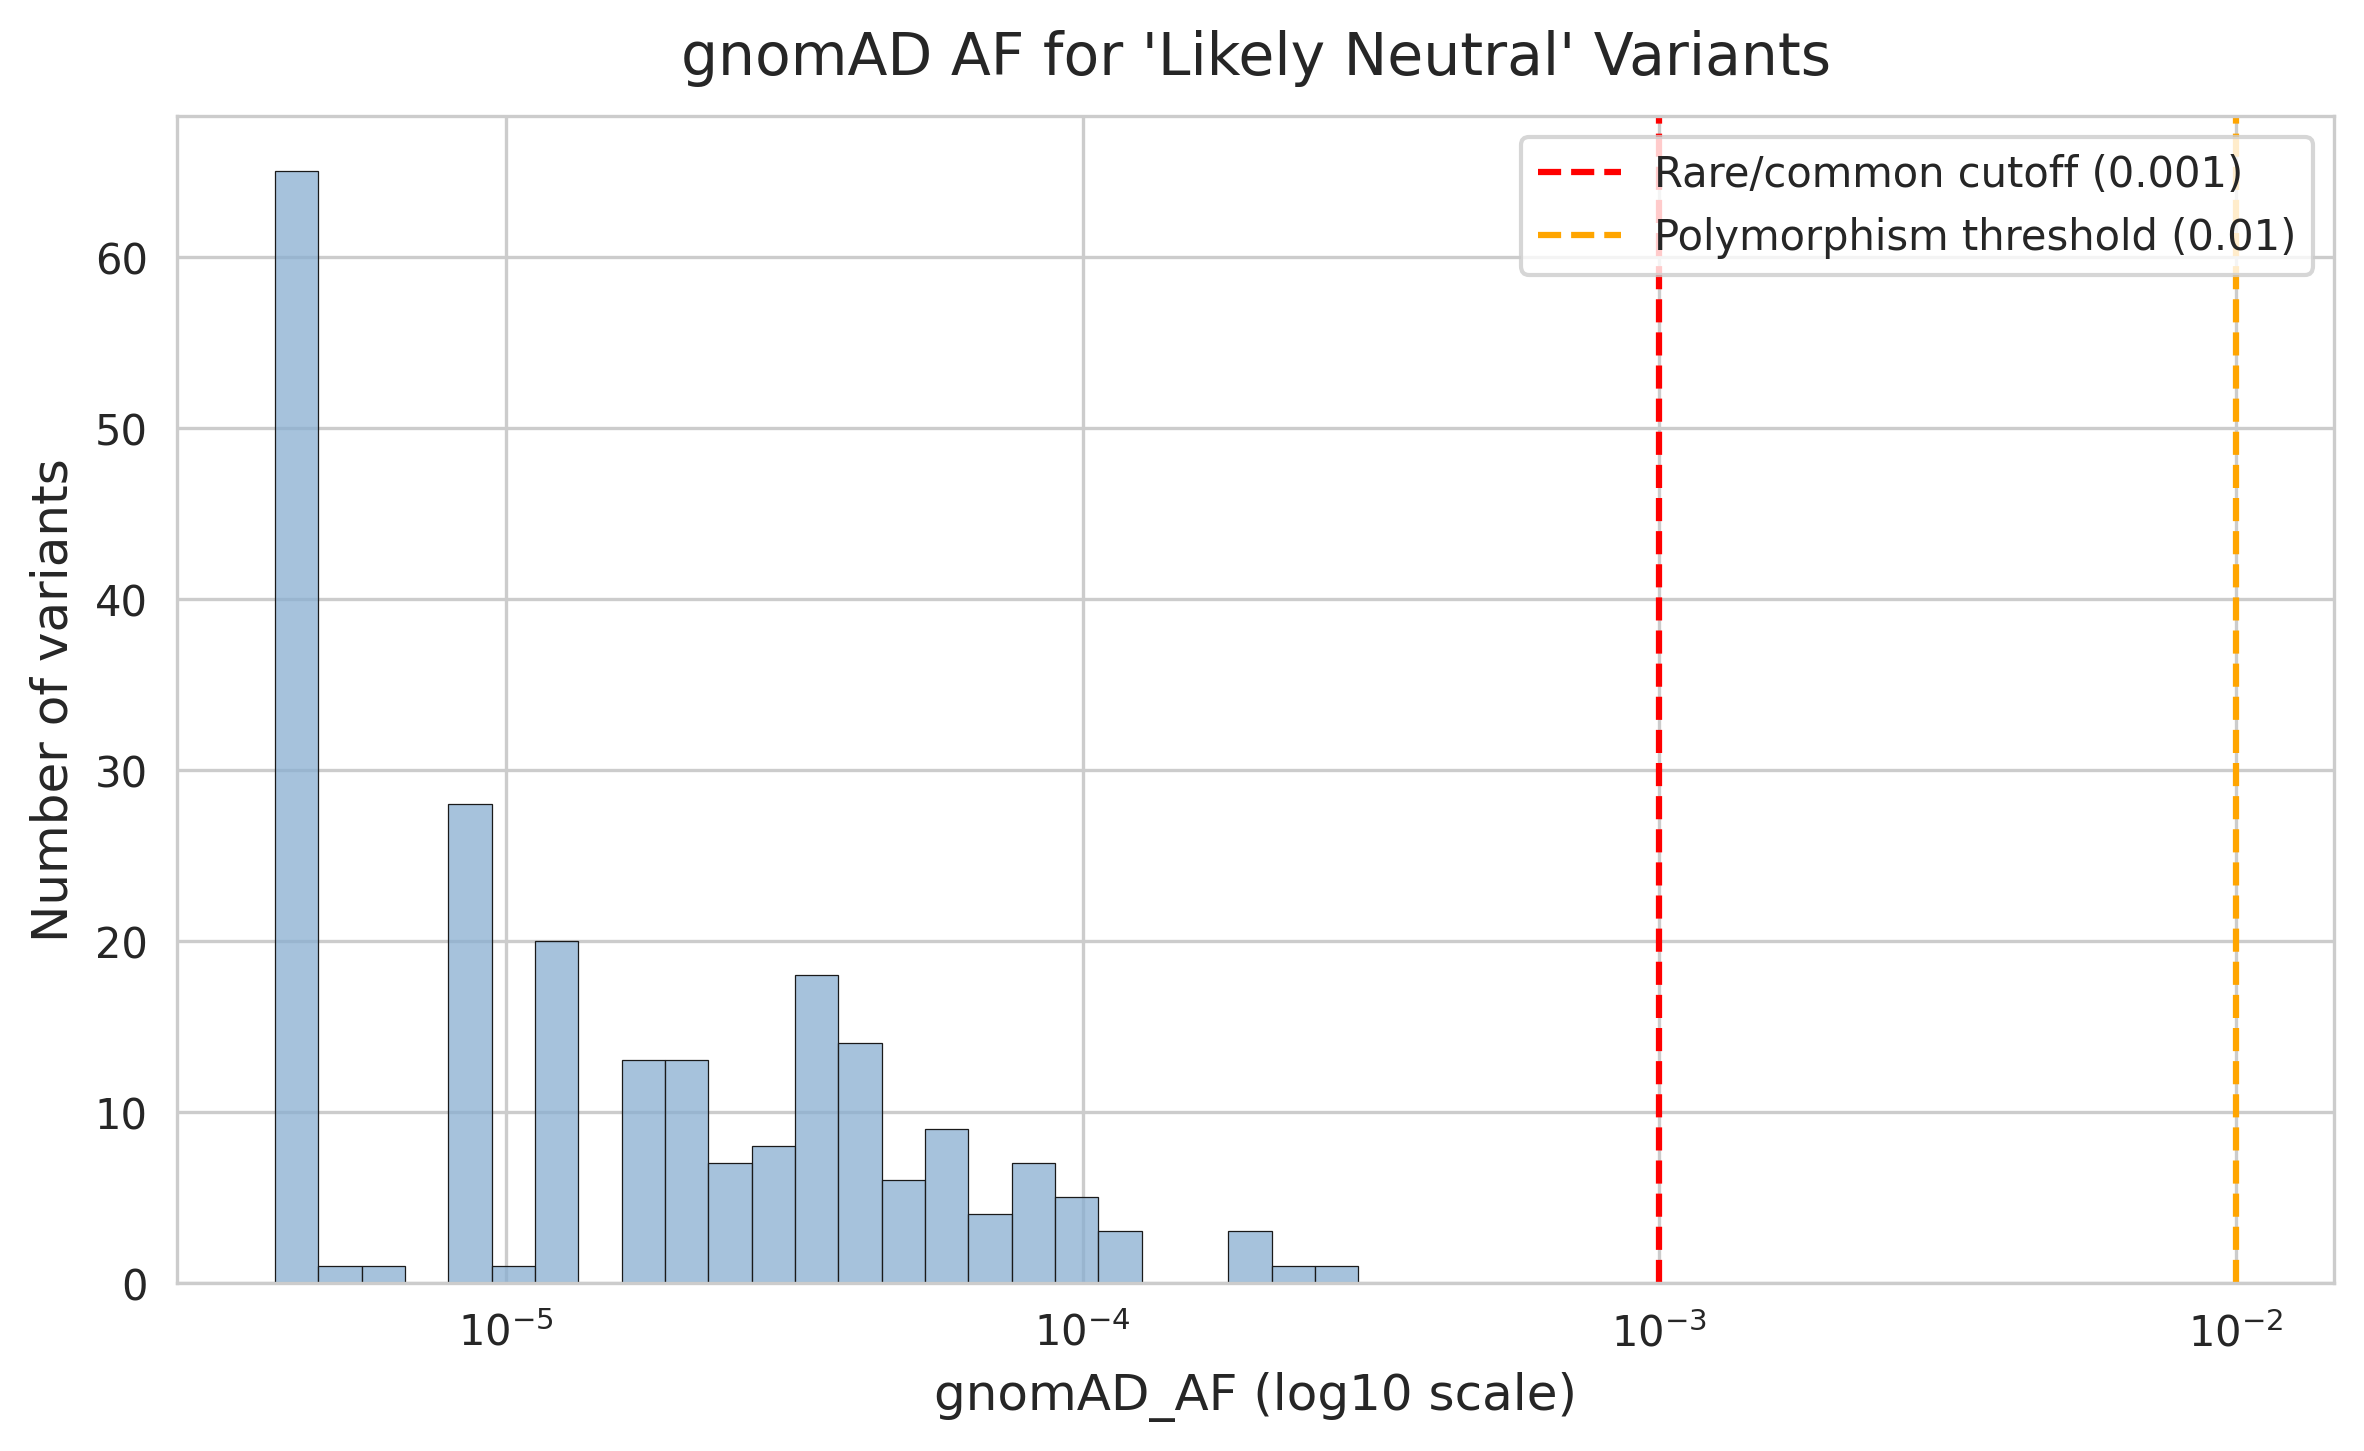
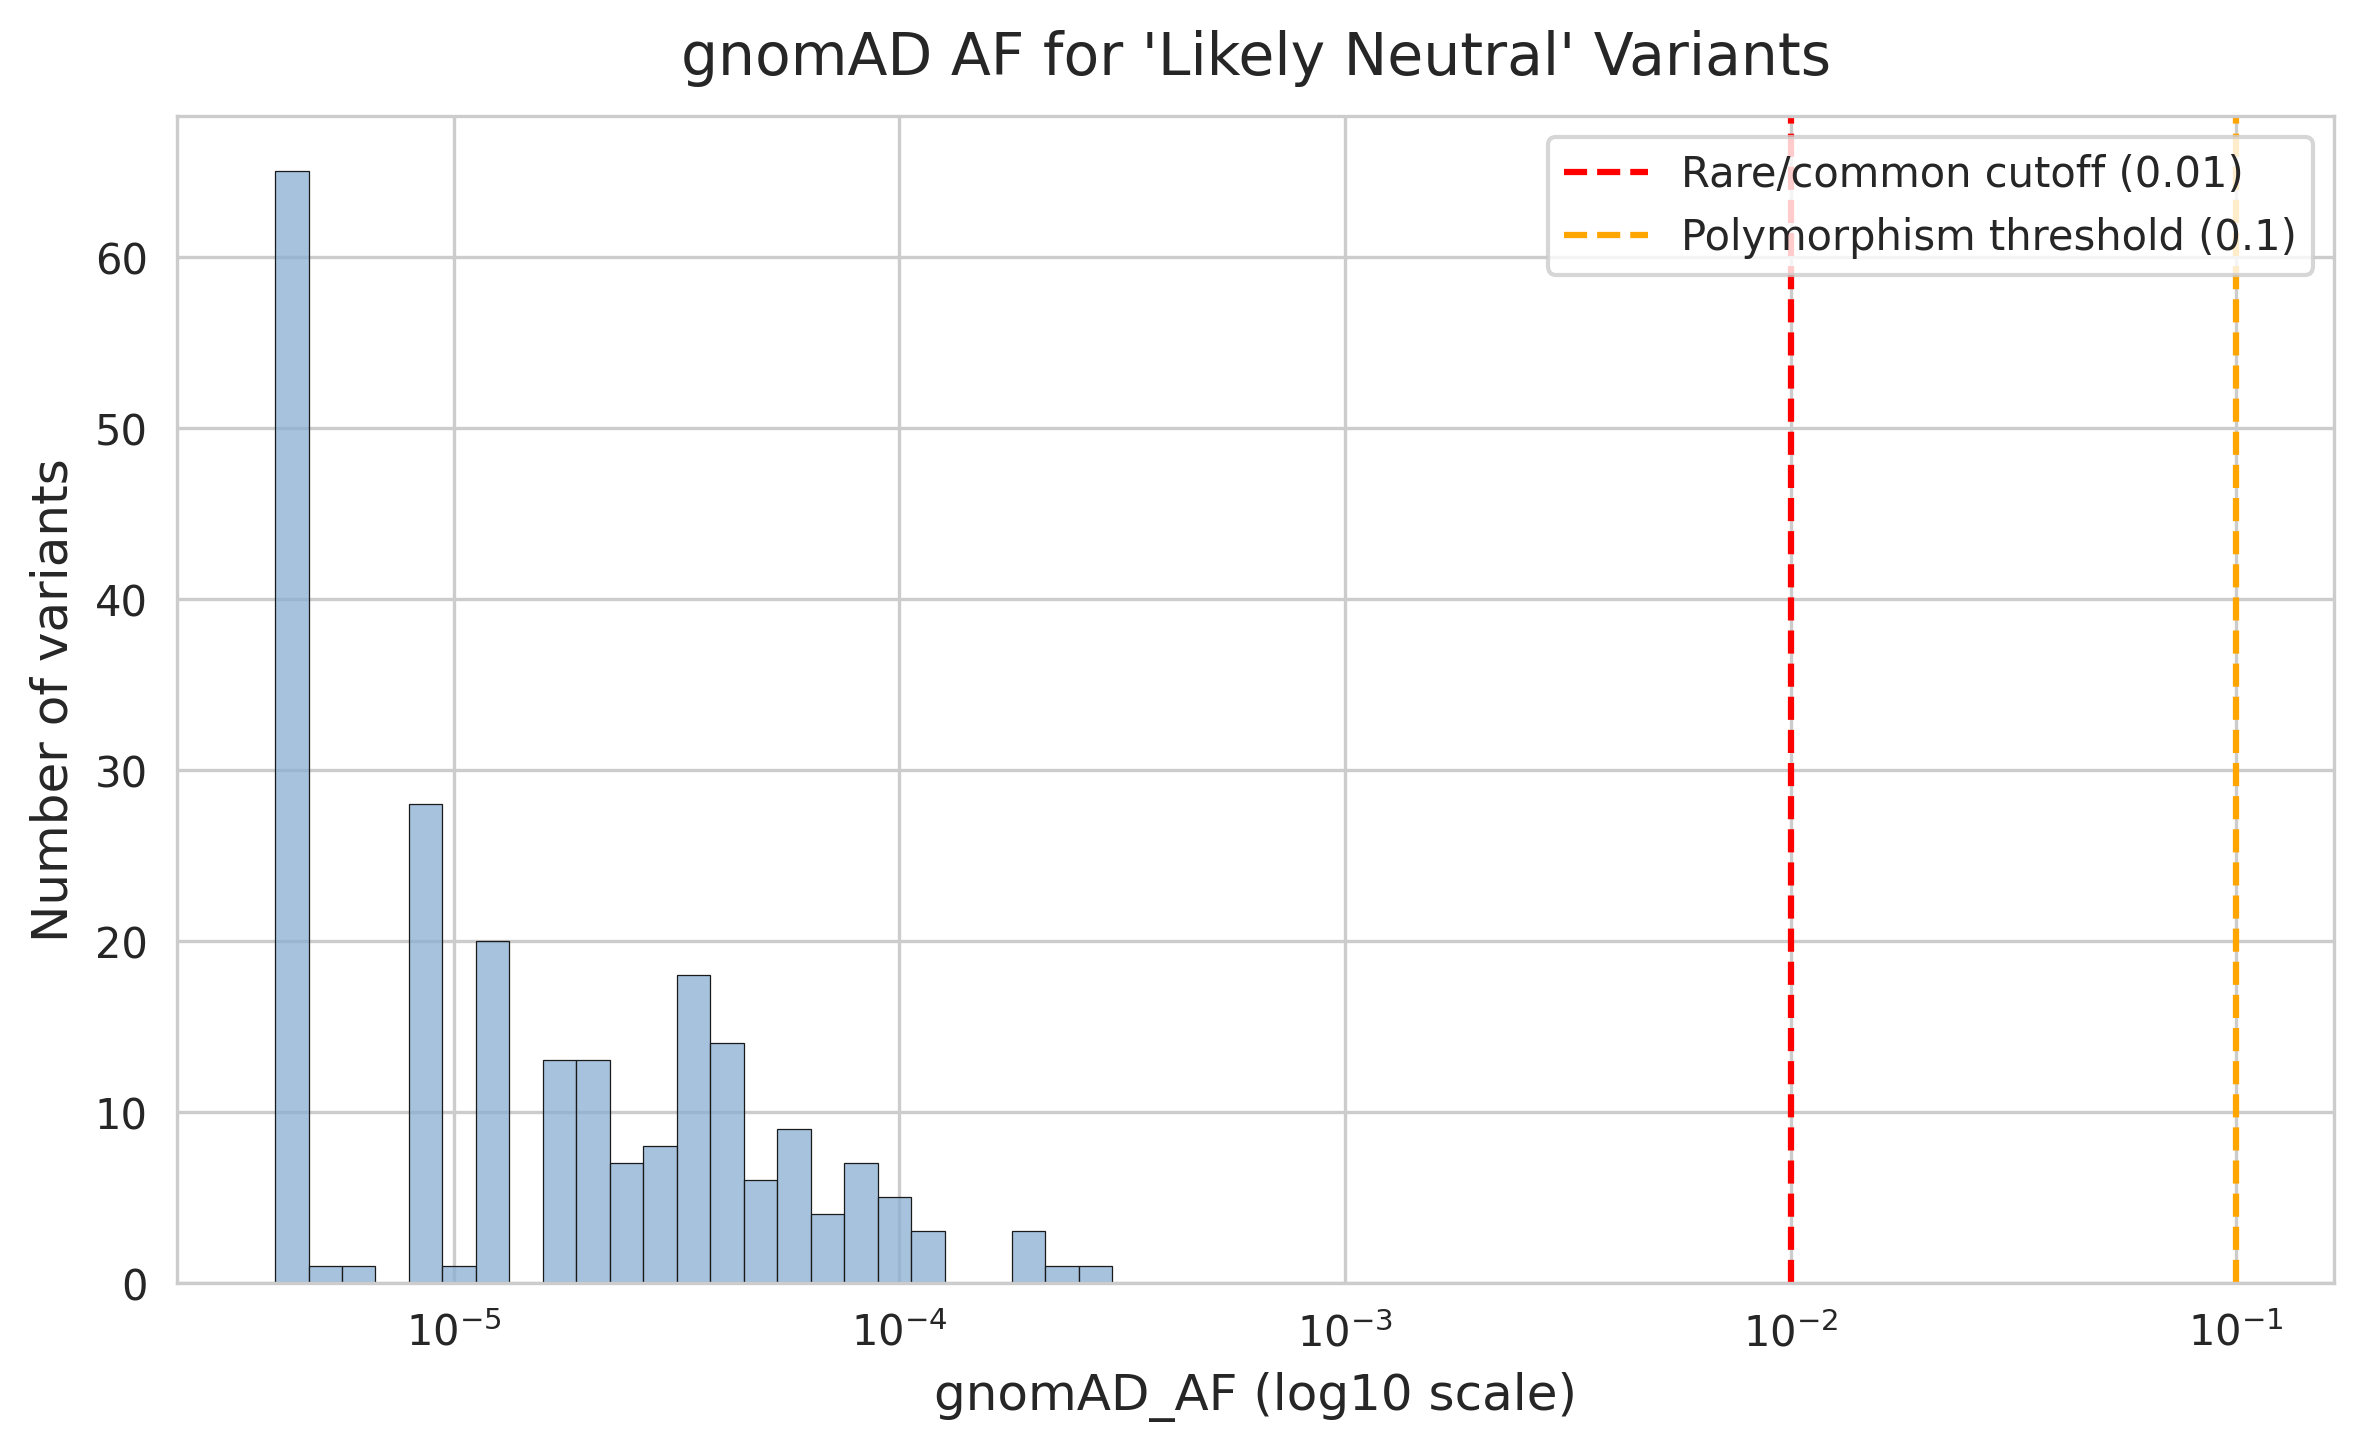
correct gnomad thresholds

diff --git a/scripts/EDA/gnomAD_freq.py b/scripts/EDA/gnomAD_freq.py
@@ -145,8 +145,8 @@ def analyze_gnomad_af(df: pd.DataFrame, status: str, plotname: str, color: str =
         linewidth=0.3
     )
 
-    plt.axvline(0.001, color="red", linestyle="--", label="Rare/common cutoff (0.001)")
-    plt.axvline(0.01, color="orange", linestyle="--", label="Polymorphism threshold (0.01)")
+    plt.axvline(0.01, color="red", linestyle="--", label="Rare/common cutoff (0.01)")
+    plt.axvline(0.1, color="orange", linestyle="--", label="Polymorphism threshold (0.1)")
     plt.title(f"gnomAD AF for '{status}' Variants", fontsize=14, pad=10)
     plt.xlabel("gnomAD_AF (log10 scale)", fontsize=12)
     plt.ylabel("Number of variants", fontsize=12)
@@ -161,8 +161,8 @@ def analyze_gnomad_af(df: pd.DataFrame, status: str, plotname: str, color: str =
     rare = (subset["gnomAD_AF"] <= 0.01).sum()
 
     print("\nDistribution of common vs. rare variants:")
-    print(f"Common '{status}' variants (gnomAD_AF > 0.001): {common:,}")
-    print(f"Rare   '{status}' variants (gnomAD_AF ≤ 0.001): {rare:,}")
+    print(f"Common '{status}' variants (gnomAD_AF > 0.01): {common:,}")
+    print(f"Rare   '{status}' variants (gnomAD_AF ≤ 0.01): {rare:,}")
     print(f"Total with AF available: {len(subset):,}")
     print("-"*50)
 
